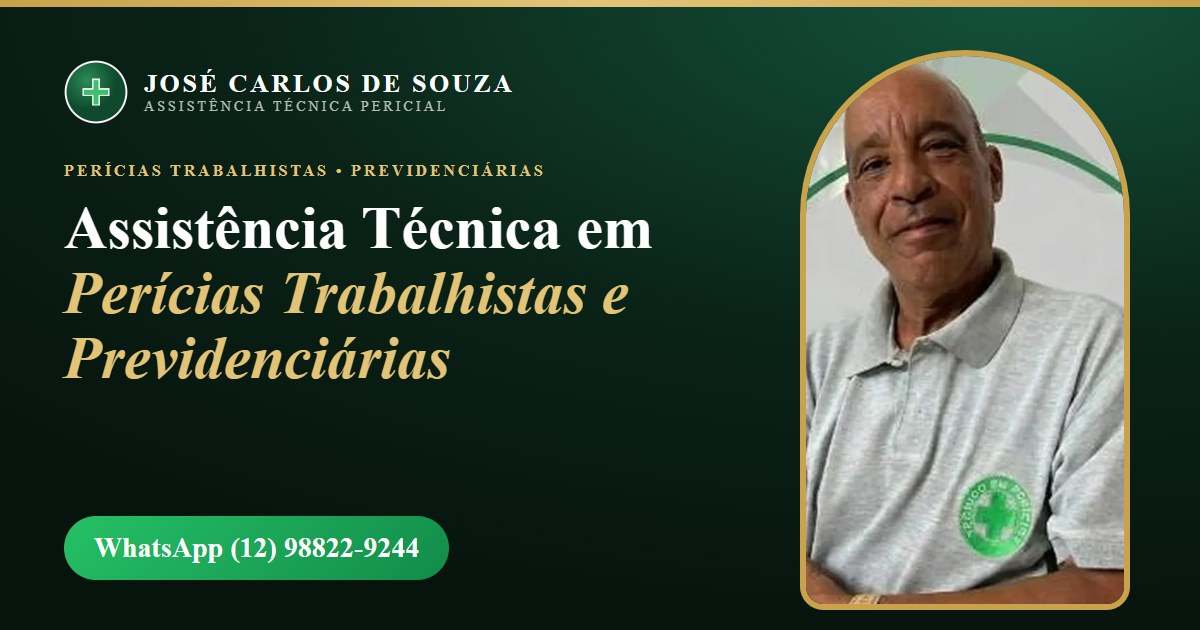
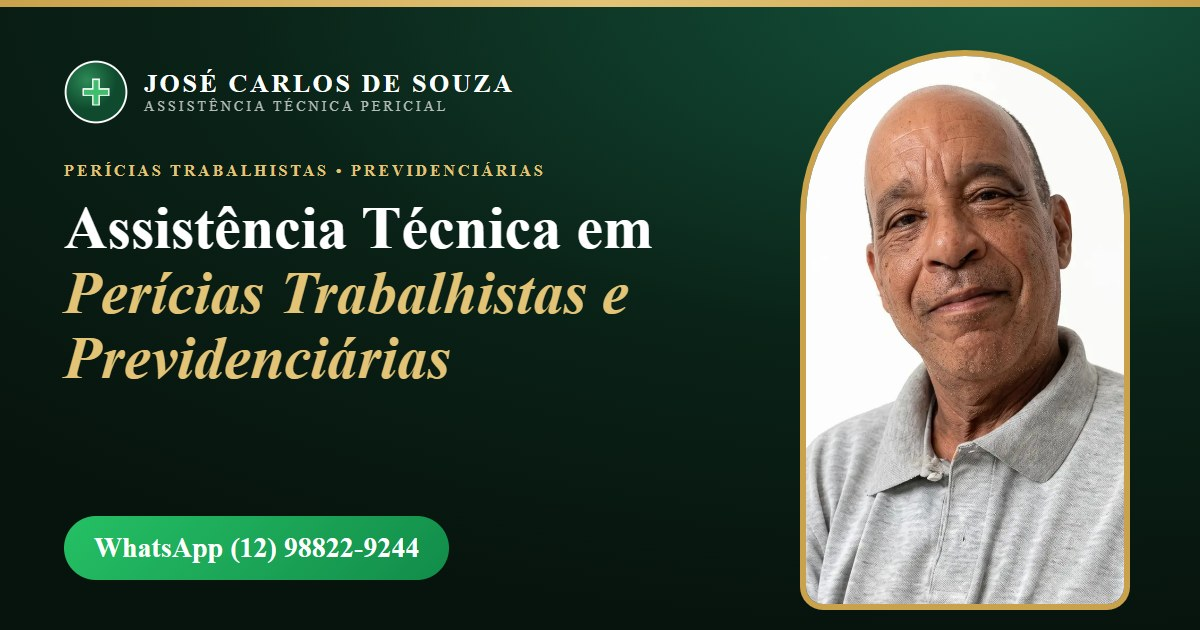
Nova foto do cliente em alta resolucao (recortada acima do emblema da camisa)

Changed region(s): [[0.6475, 0.0905, 0.9558, 0.9651]]

diff --git a/index.html b/index.html
@@ -198,7 +198,7 @@ section.s{padding:80px 0}.band,.after{flex-direction:column;align-items:flex-sta
 <div class="proof"><span><i>✓</i>Mais de 10 anos de experiência</span><span><i>✓</i>REG. SP/022580.0</span><span><i>✓</i>Orçamento pelo WhatsApp</span></div>
 <p class="note">Atendimento para consultorias e orçamentos. Escopo sujeito à avaliação técnica.</p>
 </div>
-<div class="ph"><div class="arch"><img src="assets/jose-carlos.webp" width="620" height="1206" alt="José Carlos de Souza, assistente técnico em perícias trabalhistas e previdenciárias" fetchpriority="high" decoding="async"></div>
+<div class="ph"><div class="arch"><img src="assets/jose-carlos.webp" width="640" height="1032" alt="José Carlos de Souza, assistente técnico em perícias trabalhistas e previdenciárias" fetchpriority="high" decoding="async"></div>
 <div class="float" aria-hidden="true">+10 anos<small>de experiência</small></div>
 <div class="plate"><b>José Carlos de Souza</b><span>REG. SP/022580.0</span></div></div>
 </div></section>
@@ -224,7 +224,7 @@ section.s{padding:80px 0}.band,.after{flex-direction:column;align-items:flex-sta
 </div></section>
 
 <section class="s alt" id="sobre" aria-labelledby="t-sobre"><div class="wrap ab">
-<div class="ph rv"><div class="arch"><img src="assets/jose-carlos.webp" width="620" height="1206" alt="José Carlos de Souza" loading="lazy" decoding="async"></div></div>
+<div class="ph rv"><div class="arch"><img src="assets/jose-carlos.webp" width="640" height="1032" alt="José Carlos de Souza" loading="lazy" decoding="async"></div></div>
 <div class="rv"><div class="sh" style="margin-bottom:10px"><p class="kick">Sobre o profissional</p><h2 id="t-sobre">José Carlos <em>de Souza</em></h2></div>
 <p>Assistência técnica em perícias trabalhistas e previdenciárias. Mais de dez anos de experiência, com atuação nos setores industrial, metalúrgico, químico e transportes.</p>
 <div class="reg">Registro: <b>REG. SP/022580.0</b></div>
